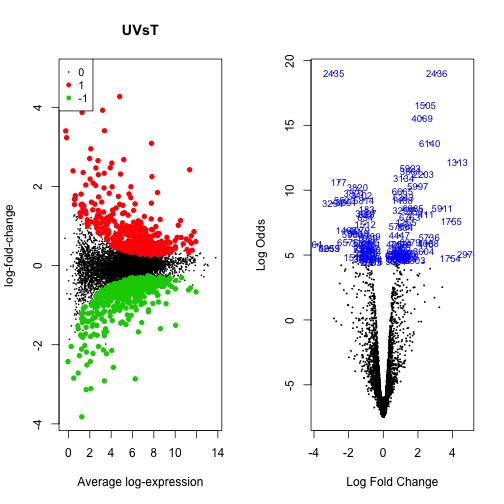
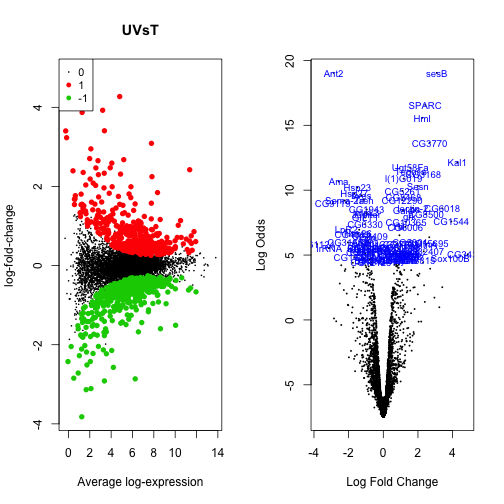
update html

diff --git a/09-applying-rnaseq-solutions.html b/09-applying-rnaseq-solutions.html
@@ -28,7 +28,7 @@
 <h2 id="data-files-needed">Data files needed</h2>
 <ul>
 <li>counts_Drosophila.txt</li>
-<li>targetsD.txt</li>
+<li>SampleInfo_Drosophila.txt</li>
 </ul>
 <p>Available from <a href="https://figshare.com/s/e08e71c42f118dbe8be6" class="uri">https://figshare.com/s/e08e71c42f118dbe8be6</a>.</p>
 <h2 id="libraries-needed">Libraries needed</h2>
@@ -36,7 +36,6 @@
 <li>limma</li>
 <li>edgeR</li>
 <li>org.Dm.eg.db</li>
-<li>EDASeq</li>
 <li>gplots</li>
 <li>RColorBrewer</li>
 </ul>
@@ -51,7 +50,6 @@ http://www.ncbi.nlm.nih.gov/pubmed/20921232</p>
 <p>First, let’s load all the libraries we will need today.</p>
 <div class="sourceCode"><pre class="sourceCode r"><code class="sourceCode r"><span class="kw">library</span>(limma)
 <span class="kw">library</span>(edgeR)
-<span class="kw">library</span>(EDASeq)
 <span class="kw">library</span>(gplots)
 <span class="kw">library</span>(RColorBrewer)
 <span class="kw">library</span>(org.Dm.eg.db)</code></pre></div>
@@ -493,7 +491,7 @@ FBgn0261552 8.37355e-08 8.37355e-08 8.425095
 <div class="sourceCode"><pre class="sourceCode r"><code class="sourceCode r"><span class="kw">par</span>(<span class="dt">mfrow=</span><span class="kw">c</span>(<span class="dv">1</span>,<span class="dv">2</span>))
 <span class="kw">plotMD</span>(fit,<span class="dt">coef=</span><span class="dv">3</span>,<span class="dt">status=</span>results[,<span class="st">&quot;UVsT&quot;</span>])
 
-<span class="kw">volcanoplot</span>(fit,<span class="dt">coef=</span><span class="dv">3</span>,<span class="dt">highlight=</span><span class="dv">100</span>,<span class="dt">names=</span>fit$genes$symbol)</code></pre></div>
+<span class="kw">volcanoplot</span>(fit,<span class="dt">coef=</span><span class="dv">3</span>,<span class="dt">highlight=</span><span class="dv">100</span>,<span class="dt">names=</span>fit$genes$SYMBOL)</code></pre></div>
 <p><img src="fig-09/unnamed-chunk-35-1.png" title="plot of chunk unnamed-chunk-35" alt="plot of chunk unnamed-chunk-35" style="display: block; margin: auto;" /></p>
 <div class="sourceCode"><pre class="sourceCode r"><code class="sourceCode r"><span class="kw">stripchart</span>(v$E[<span class="st">&quot;FBgn0025111&quot;</span>,]~targets$Group)</code></pre></div>
 <p><img src="fig-09/unnamed-chunk-36-1.png" title="plot of chunk unnamed-chunk-36" alt="plot of chunk unnamed-chunk-36" style="display: block; margin: auto;" /></p>

diff --git a/08-applying-rnaseq.html b/08-applying-rnaseq.html
@@ -28,9 +28,9 @@
 <h2 id="data-files-needed">Data files needed</h2>
 <ul>
 <li>counts_Drosophila.txt</li>
-<li>targetsD.txt</li>
+<li>SampleInfo_Drosophila.txt</li>
 </ul>
-<p>Available from <a href="https://figshare.com/s/f5d63d8c265a05618137" class="uri">https://figshare.com/s/f5d63d8c265a05618137</a> (you will already have downloaded it with the rest of the Day 2 data)</p>
+<p>Available from <a href="https://figshare.com/s/e08e71c42f118dbe8be6" class="uri">https://figshare.com/s/e08e71c42f118dbe8be6</a></p>
 <h2 id="libraries-needed">Libraries needed</h2>
 <ul>
 <li>limma</li>
